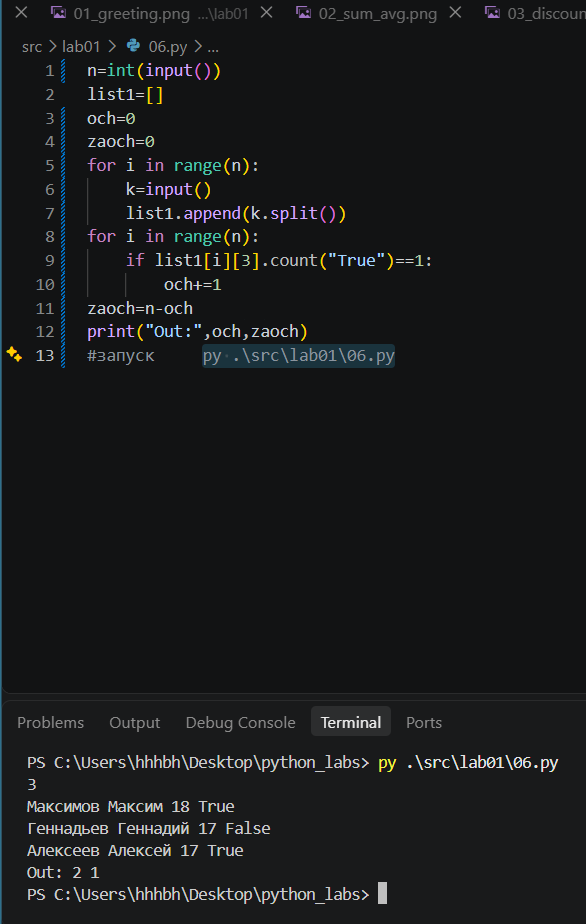
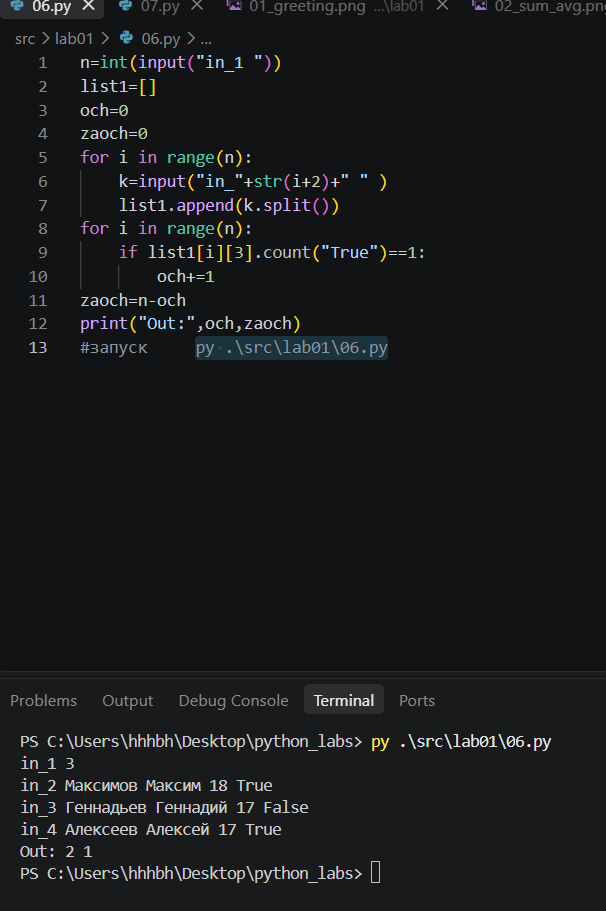
.

diff --git a/src/lib/text.py b/src/lib/text.py
@@ -1,0 +1,93 @@
+import re
+def min_max(a):
+    for t in range(len(a)):
+        for i in range(len(a)-1):
+            if a[i]>a[i+1]:
+                a[i],a[i+1]=a[i+1],a[i]
+    return a[0],a[-1]
+
+def unique_sorted(b):
+    b=list(set(b))
+    for t in range(len(b)):
+            for i in range(len(b)-1):
+                if b[i]>b[i+1]:
+                    b[i],b[i+1]=b[i+1],b[i]
+    return b
+
+def flatten(a):
+    b=[]
+    u=0
+    for x in range(len(a)):
+        if isinstance(a[x], (list, tuple)):
+            u+=1
+            for y in range(len(a[x])):
+                b.append(a[x][y])
+    if u==len(a):
+        return b
+    else:
+        return TypeError
+
+def transpose(mat):
+    if len(mat)==0:
+        return []
+    else:
+        m=len(mat)
+        n=len(mat[0])
+        mat2=[[0 for i in range(m)]for i in range(n)]
+        for x in range(0,m):
+            for y in range(0,n):
+                mat2[y][x]=mat[x][y]
+        return mat2
+
+def row_sums(mat):
+    m=len(mat)
+    matrix_row_sum=[[]for i in range(m)]
+    for i in range(0,m):
+        matrix_row_sum[i].append(sum(mat[i]))
+    return matrix_row_sum
+
+def normalize(a):
+    b=[]
+    for i in range(len(a)):
+        b.append(a[i].replace("\n"," ").replace("\t"," ").replace("\r"," ").casefold().replace("ё","е").strip())
+        k=b[i].count(" ")
+        prob=" "*k
+        b[i]=b[i].replace(prob," ")
+    return b
+
+def tokenize(a):
+    b=[]
+    for i in range(len(a)):
+        b.append(re.split(r'[^a-zA-Z0-9а-яА-Я-]+',a[i]))
+    return b
+
+def count_freq(a):
+    b=set(a)
+    freq=[[] for t in range(len(b))]
+    for i in range(len(b)):
+        freq[i].append(list(b)[i])
+        freq[i].append(a.count(list(b)[i]))
+    freq.sort()
+    return freq
+
+def alf_ord(a):
+    num_of_nums=[]
+    for i in range(len(a)):
+        num_of_nums.append(a[i][0])
+    num_of_nums=list(set(num_of_nums))
+    num_of_nums.reverse()
+    b=[[]for x in range(len(num_of_nums))]
+    for x in range(0,len(num_of_nums)):
+        for y in range(0,len(a)):
+            if int(a[y][0])==int(num_of_nums[x]):
+                b[x].append(a[y])
+    for i in range(len(b)):
+        b[i].sort()
+    return flatten(b)
+
+def top_n(a):
+    b=[[0,0]for i in range(len(a))]
+    for i in range(len(a)):
+        b[i][0],b[i][1]=a[i][1],a[i][0]
+    b.sort(reverse=True)
+    return alf_ord(b)

diff --git a/src/lab03/textA.py b/src/lab03/textA.py
@@ -1,0 +1,72 @@
+import re
+def flatten(a):
+    b=[]
+    u=0
+    for x in range(len(a)):
+        if isinstance(a[x], (list, tuple)):
+            u+=1
+            for y in range(len(a[x])):
+                b.append(a[x][y])
+    if u==len(a):
+        return b
+    else:
+        return TypeError
+    
+def normalize(a):
+    b=[]
+    for i in range(len(a)):
+        b.append(a[i].replace("\n"," ").replace("\t"," ").replace("\r"," ").casefold().replace("ё","е").strip())
+        k=b[i].count(" ")
+        prob=" "*k
+        b[i]=b[i].replace(prob," ")
+    return b
+
+def tokenize(a):
+    b=[]
+    for i in range(len(a)):
+        b.append(re.split(r'[^a-zA-Z0-9а-яА-Я-]+',a[i]))
+    for x in range(len(b)):
+        for y in range(len(b[x])):
+            if len(b[x][y])==0:
+                b[x].pop(y)
+    return b
+
+def count_freq(a):
+    b=set(a)
+    freq=[[] for t in range(len(b))]
+    for i in range(len(b)):
+        freq[i].append(list(b)[i])
+        freq[i].append(a.count(list(b)[i]))
+    freq.sort()
+    return freq
+
+def alf_ord(a):
+    num_of_nums=[]
+    for i in range(len(a)):
+        num_of_nums.append(a[i][0])
+    num_of_nums=list(set(num_of_nums))
+    num_of_nums.reverse()
+    b=[[]for x in range(len(num_of_nums))]
+    for x in range(0,len(num_of_nums)):
+        for y in range(0,len(a)):
+            if int(a[y][0])==int(num_of_nums[x]):
+                b[x].append(a[y])
+    for i in range(len(b)):
+        b[i].sort()
+    return flatten(b)
+
+def top_n(a):
+    b=[[0,0]for i in range(len(a))]
+    for i in range(len(a)):
+        b[i][0],b[i][1]=a[i][1],a[i][0]
+    b.sort(reverse=True)
+    return alf_ord(b)
+
+a=["ПрИвЕт\nМИр\t","ёжик, Ёлка","Hello\r\nWorld","  двойные         пробелы  "]
+b=["привет мир","hello,world!!!","по-настоящему круто","2025 год","emoji 😀 не слово"]
+c=["a","b","a","c","b","a"]
+print(a," → ",normalize(a))
+print(b," → ",tokenize(b))
+n=2
+print(c," → ",top_n(count_freq(c))[0:n])
+#запуск     py .\src\lab03\textA.py

diff --git a/src/lab03/text_stats.py b/src/lab03/text_stats.py
@@ -1,0 +1,14 @@
+import re
+from textA import*
+a=["Привет, мир! Привет!!!"]
+k=10
+print(a)
+print("Всего слов:",len(tokenize(normalize(a))[0]))
+print("Уникальных слов:",len(set(tokenize(normalize(a))[0])))
+print("Топ-5: ")
+print("слово"+" "*(k-len("слово"))+"| частота")
+print("-"*k*2)
+for i in range(len(set(tokenize(normalize(a))[0]))):
+    print(top_n(count_freq(tokenize(normalize(a))[0]))[i][1]+" "*(k-len(top_n(count_freq(tokenize(normalize(a))[0]))[i][1]))+"| "+\
+          str(top_n(count_freq(tokenize(normalize(a))[0]))[i][0]))
+#запуск     py .\src\lab03\text_stats.py
